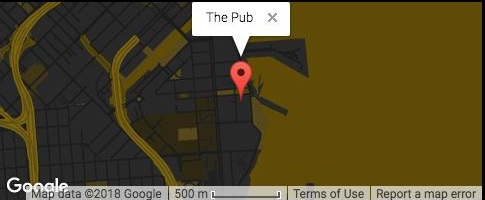
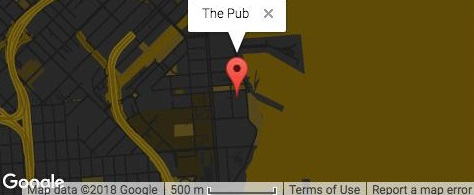
fix:map 調整黑線

diff --git a/Chester/index2.html b/Chester/index2.html
@@ -143,27 +143,19 @@
                             <div class="text-color-brown marin-bottom-35p">CONTACT</div>
                             <div class="text-size marin-bottom-35p">
                                 <div>
-                                    <span>
-                                        500 Terry Francois Street
-                                    </span>
+                                    500 Terry Francois Street
                                 </div>
                                 <div>
-                                    <span>
-                                        San Francisco, CA 94158
-                                    </span>
+                                    San Francisco, CA 94158
                                 </div>
 
                                 <p>
                                 <div>
-                                    <span>
-                                        E / Info@mysite.com
+                                    E / Info@mysite.com
 
-                                    </span>
                                 </div>
                                 <div>
-                                    <span>
-                                        T / 123-4567890d
-                                    </span>
+                                    T / 123-4567890d
                                 </div>
 
                             </div>
@@ -175,24 +167,18 @@
 
                             <div class="text-size marin-bottom-35p">
                                 <div>
-                                    <span>
-                                        Monday-Friday
-                                    </span>
+
+                                    Monday-Friday
+
                                 </div>
                                 <div>
-                                    <span>
-                                        11am-11pm
-                                    </span>
+                                    11am-11pm
                                 </div>
                                 <div>
-                                    <span>
-                                        Saturday-sunday
-                                    </span>
+                                    Saturday-sunday
                                 </div>
                                 <div>
-                                    <span>
-                                        10am -12am
-                                    </span>
+                                    10am -12am
                                 </div>
 
                             </div>
@@ -210,8 +196,13 @@
                 </div>
             </div>
             <div id="main-item5-right" class="main-item5-right">
-                <div class="text-color-brown  marin-bottom-35p">FIND US</div>
-                <div class=""><img class="pic-size-fix" src="./pic/map.jpg"></div>
+                <div>
+                    <div class="text-color-brown   marin-bottom-35p">
+                        FIND US
+                    </div>
+                    <div><img class="pic-size-fix" src="./pic/map.jpg"></div>
+                </div>
+
             </div>
         </div>
     </div>

diff --git a/Chester/css/index.css b/Chester/css/index.css
@@ -463,7 +463,7 @@
     height: 100px;
 }
 .pic-size-fix{
-    width: 452px;
+    width: 450px;
     height: 200px;
 }
 
